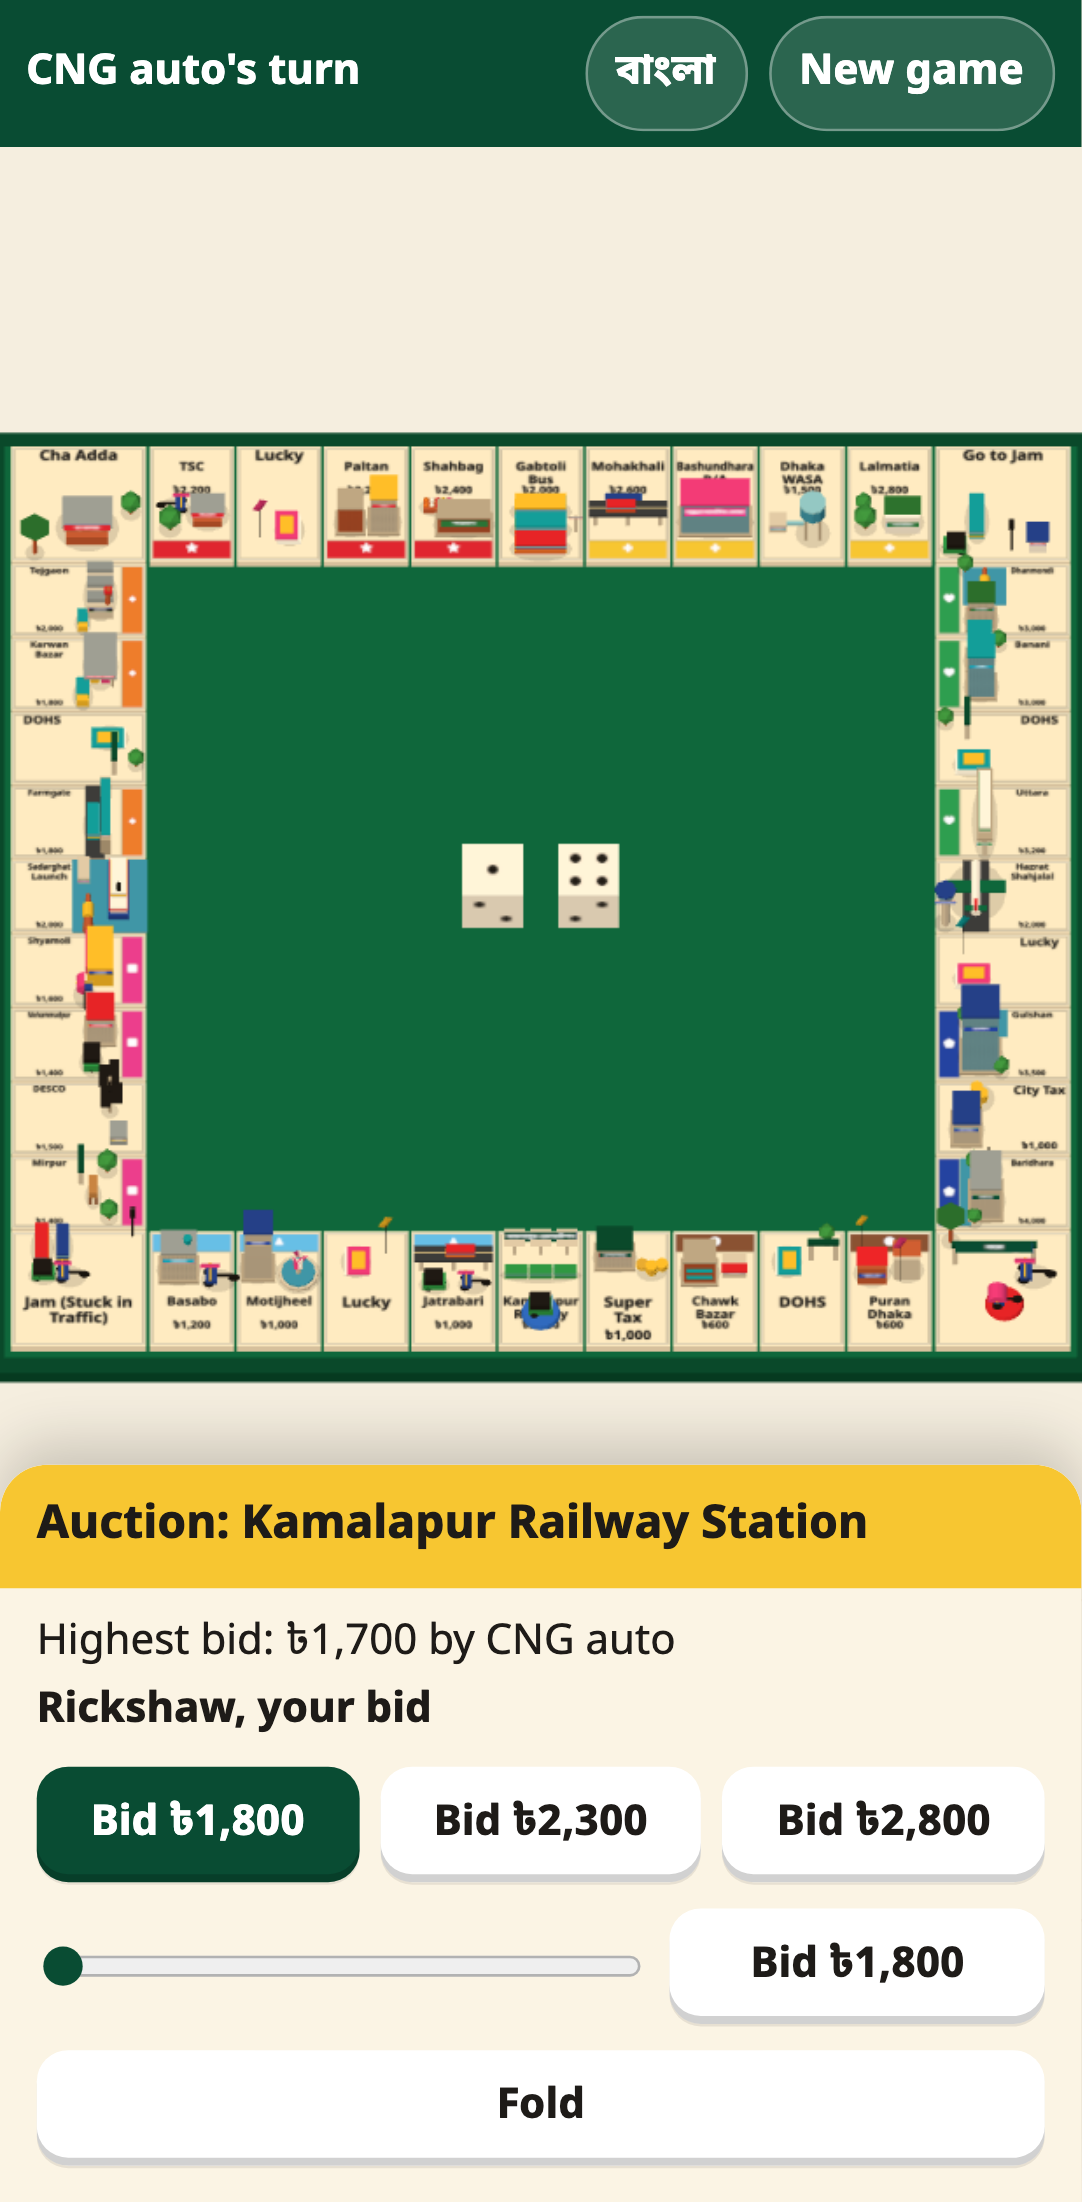
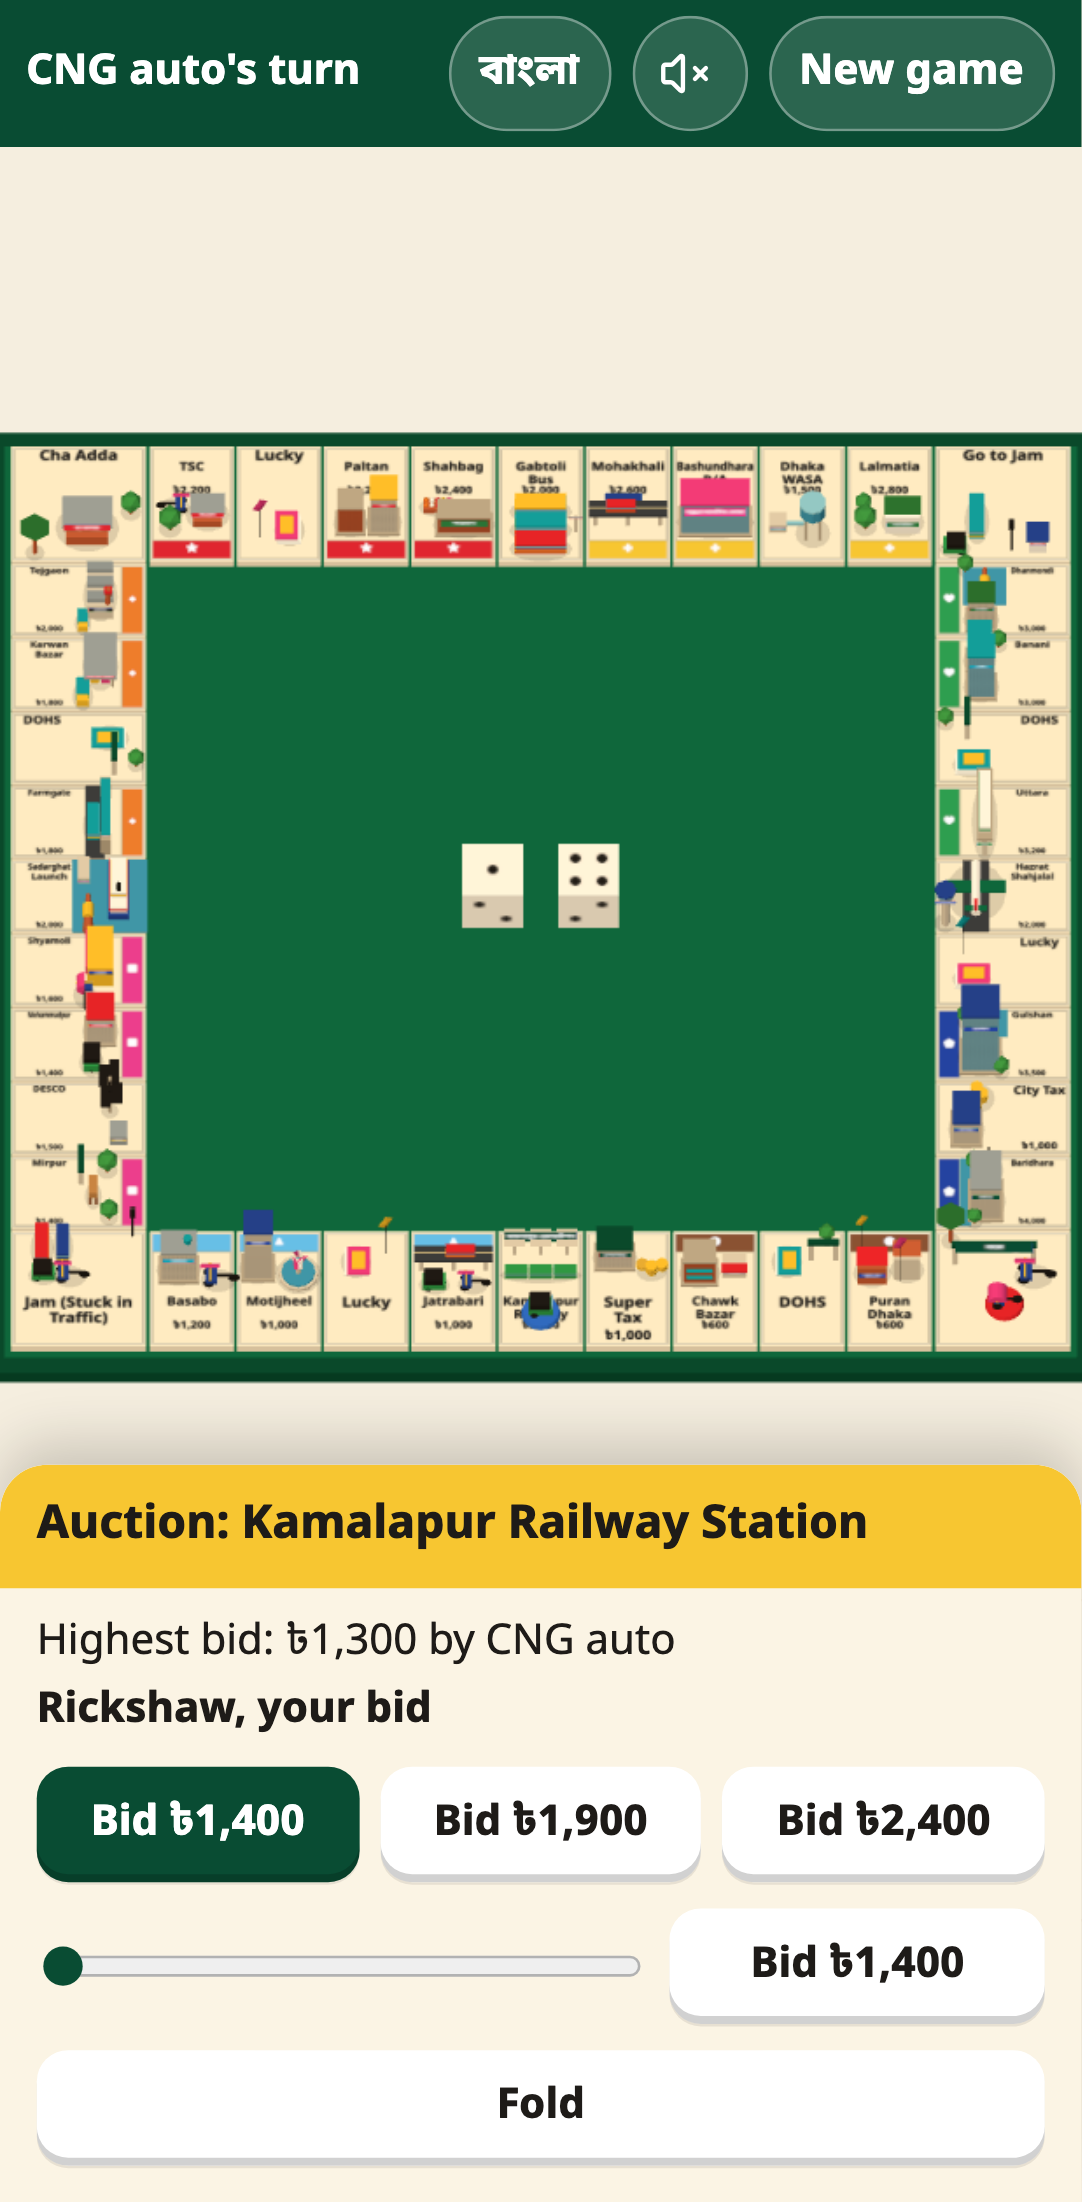
S6: style guide and asset manifest updated, S6 screenshots
S5 screenshots restored to their S5 state; S6 screens saved as s6-*.png. D-79 to D-83 logged.

diff --git a/tests/e2e/style.spec.ts b/tests/e2e/style.spec.ts
@@ -1,28 +1,39 @@
 import { expect, test } from '@playwright/test';
+import { runSteps } from './helpers';
 
-// S5 visual checks: the sample position at iPhone 13 Pro size (390 by 844 points, 3x pixels),
+// S5 and S6 visual checks: the sample position at iPhone 13 Pro size (390 by 844 points, 3x pixels),
 // both camera presets and both languages, saved for comparison with docs/style-guide.md.
 test.use({ viewport: { width: 390, height: 844 }, deviceScaleFactor: 3, isMobile: true, hasTouch: true });
 
-for (const camera of ['tabletop', 'tilted45', 'isometric']) {
+for (const camera of ['tabletop']) {
   for (const lang of ['en', 'bn']) {
-    test(`S5 showcase: ${camera} camera, ${lang}`, async ({ page }) => {
+    test(`S6 showcase: ${camera} camera, ${lang}`, async ({ page }) => {
       const errors: string[] = [];
       page.on('pageerror', (e) => errors.push(e.message));
       await page.goto(`/?showcase=1&camera=${camera}&lang=${lang}`);
       await page.waitForTimeout(800);
-      await page.screenshot({ path: `docs/screenshots/s5-${camera}-${lang}.png` });
+      await page.screenshot({ path: `docs/screenshots/s6-board-${lang}.png` });
       expect(errors).toEqual([]);
     });
   }
 }
 
-test('S5 game screen in the new style, both languages', async ({ page }) => {
+test('S6 game screen, both languages', async ({ page }) => {
   await page.goto('/?test=1&lang=en');
   await page.getByTestId('count-4').click();
   await page.getByTestId('start').click();
   await page.getByTestId('handoff').getByRole('button').click();
-  await page.screenshot({ path: 'docs/screenshots/s5-game-en.png' });
+  await page.screenshot({ path: 'docs/screenshots/s6-game-en.png' });
   await page.getByTestId('lang').click();
-  await page.screenshot({ path: 'docs/screenshots/s5-game-bn.png' });
+  await page.screenshot({ path: 'docs/screenshots/s6-game-bn.png' });
+});
+
+test('S6 card artwork', async ({ page }) => {
+  await page.goto('/?test=1&lang=en');
+  await page.getByTestId('start').click();
+  for (let i = 0; i < 2000 && !(await page.getByTestId('card').isVisible()); i++) await runSteps(page, 1);
+  await expect(page.getByTestId('card')).toBeVisible();
+  await page.screenshot({ path: 'docs/screenshots/s6-card-en.png' });
+  await page.getByTestId('lang').click();
+  await page.screenshot({ path: 'docs/screenshots/s6-card-bn.png' });
 });

diff --git a/docs/style-guide.md b/docs/style-guide.md
@@ -97,6 +97,8 @@ Every tile gets one Dhaka-specific anchor: a rickshaw with rickshaw-art colors, 
 
 Review test for each tile: with the name covered, would a Bangladeshi viewer still say Dhaka? If not, redo it.
 
+All 40 tiles are dressed (S6). The anchor list is in code: src/scene/models/dressing.ts.
+
 ### S5 hero group: Dark Blue
 
 | Tile | Anchor | Parts |
@@ -119,8 +121,16 @@ Target: 40 frames per second on the iPhone 13 Pro (D-69), plus one mid-range And
 
 Budgets: pixel ratio at most 1.5, under 200 draw calls, under 60,000 triangles for the full board.
 
-S5 measurement with the Dark Blue group dressed: 185 draw calls and about 1,900 triangles. Headless desktop Chrome (software rendering) held 60 fps, and 49 to 58 fps with the CPU slowed 4 times; the owner measured 40 or more on the iPhone 13 Pro (D-78). Triangles are far under budget; draw calls are the constraint. Before S6 dresses all tiles: draw the 40 tile signs into one shared texture (about 40 fewer calls) and merge each tile's static landmark parts into one mesh per material.
+S6 measurement with all 40 tiles dressed: 17 draw calls and about 10,700 triangles (static scenery merged, labels and signs in atlases, houses and owner bands instanced). S5, Dark Blue only, had 185 draw calls. Headless desktop Chrome (software rendering) held 60 fps, and 49 to 58 fps with the CPU slowed 4 times; the owner measured 40 or more on the iPhone 13 Pro (D-78). Triangles are far under budget; draw calls are the constraint. Before S6 dresses all tiles: draw the 40 tile signs into one shared texture (about 40 fewer calls) and merge each tile's static landmark parts into one mesh per material.
 
 ## 10. Small anchors at phone scale
 
 On a 390-point-wide phone a side tile is about 31 points wide. A rickshaw or nouka at true scale is a few points, so anchors are drawn about 1.4 times larger than the buildings around them would suggest, and each tile shows one big, simple anchor rather than many small ones.
+
+## 11. Tokens, motion and sound (S6)
+
+- **Tokens**: rickshaw, CNG auto, ilish, kite, tea cup and bus (plan 2.4), each a merged low-poly model standing on a disc in the player's color, so color stays the first cue.
+- **Motion**: tokens hop tile by tile, stretching in the air and squashing on landing; dice tumble and bounce lower each time; new owner bands, houses and hotels pop in with a small overshoot. All motion returns to rest. When the phone asks for reduced motion, hops become short slides and nothing squashes or pops.
+- **Sound**: synthesized in code (plan 3.1): dice rattle, hop ticks, a cash chime for buying, coins for rent and salary, a paper swish for cards, an auction bell, a two-tone jam horn, a knock for building, falling notes for bankruptcy and a short fanfare for the win. All sound goes through one bus and a limiter. A sound toggle sits in the top strip and is remembered per device.
+- **Cards**: a rickshaw-art border of flowers and dots in the deck color, with a lucide icon for the card's effect.
+- **Tap to build**: Build, Sell, Mortgage and Redeem highlight the tiles they can use with a pulsing yellow overlay; tapping a tile acts there. The list stays as a fallback.

diff --git a/docs/asset-manifest.md b/docs/asset-manifest.md
@@ -1,17 +1,18 @@
 # Asset manifest
 
-Every visual and sound asset in plan 3.10, its status and where it comes from. All assets are made in code; no image, model or sound files are shipped (docs/LICENSES.md lists the only third-party file, the Bangla font).
+Every visual and sound asset in plan 3.10, its status and where it comes from. All assets are made in code; no image, model or sound files are shipped. docs/LICENSES.md lists the third-party pieces: the Bangla font and the lucide icons.
 
 | Asset (plan 3.10) | Status | Made by |
 |---|---|---|
 | Base tile, side and corner | Styled (S5) | src/scene/board.ts, canvas tile texture |
-| Corner scenes: GO, Jam, Cha Adda, Go to Jam | Greybox | S6 |
-| Property building kits | Dark Blue dressed (S5 hero target); 20 properties greybox | src/scene/models/kit.ts, dressing.ts |
-| House and hotel | Styled (S5) | src/scene/board.ts |
-| Transport hubs and utilities | Greybox | S6 |
-| Card and tax tiles | Greybox | S6 |
-| Tokens: rickshaw, CNG, ilish, kite, tea cup, bus | Greybox shapes in player colors | S6 |
-| Dice | Styled (S5) | src/scene/board.ts, canvas pip texture |
-| Avatars and UI icons | Color swatches only | S6 |
-| Audio | Not started | S6, Web Audio synthesis |
+| Corner scenes: GO, Jam, Cha Adda, Go to Jam | Dressed (S6) | src/scene/models/dressing.ts |
+| Property building kits | All 22 dressed (S6), one Dhaka anchor each | src/scene/models/kit.ts, dressing.ts |
+| House and hotel | Styled, instanced (S6) | src/scene/board.ts |
+| Transport hubs and utilities | Dressed (S6) | src/scene/models/dressing.ts |
+| Card and tax tiles | Dressed (S6) | src/scene/models/dressing.ts |
+| Tokens: rickshaw, CNG, ilish, kite, tea cup, bus | Modeled (S6) on player-colored discs | src/scene/models/tokens.ts |
+| Dice | Styled, one texture (S6) | src/scene/board.ts |
+| Avatars and UI icons | Color swatches as avatars; lucide icons (ISC) for sound and cards | src/ui/icons.ts |
+| Audio | Synthesized (S6): dice, hop, buy, rent, coin, card, bell, horn, build, fall, fanfare | src/audio/sfx.ts |
 | Interface (buttons, sheets, player cards) | Styled (S5) | src/ui/styles.css |
+| Card artwork | Rickshaw-art border with an effect icon (S6) | src/ui/cardArt.ts |

diff --git a/docs/DECISIONS.md b/docs/DECISIONS.md
@@ -84,6 +84,11 @@ Two lists: decisions taken (with who decided and why), and open questions waitin
 | D-76 | 2026-11-08 | S5 camera choice: tabletop (58 degrees, board square to the screen). | Owner | Plan 3.6 and 4.3 S5 check: owner picks the preset. tilted45 and isometric stay in data/scene.json for reference only. |
 | D-77 | 2026-11-08 | Each property's set color band sits on the tile edge facing the board centre: top edge for the bottom row, bottom edge for the top row, right edge for the left column, left edge for the right column. Houses and hotels stand on the band. Tile text stays upright (D-67) and keeps clear of the owner band on the outer edge. | Owner | Owner feedback on the S5 screenshots; matches a printed board. |
 | D-78 | 2026-11-08 | S5 gate passed: the owner confirmed the style and measured 40 or more frames per second on the iPhone 13 Pro with `?bench=1&camera=tabletop`. | Owner | Plan 4.3 S5 checks all met: camera chosen (D-76), style confirmed, frame rate on target. The mid-range Android check (D-69) is still due before S7. |
+| D-79 | 2026-11-08 | Tile anchors for all 40 tiles  based on the plan 3.9 art hooks. Religious buildings, stadiums and party symbols are left out (plan 3.8). | Builder | Plan 3.9 says the hooks are suggestions to check against the owner's knowledge; the owner reviews them in S6. |
+| D-80 | 2026-11-08 | Interface and card icons come from lucide (npm `lucide`, ISC), recorded in docs/LICENSES.md. | Builder | Org rule: icons from lucide.dev only. |
+| D-81 | 2026-11-08 | Static scenery is merged into a few meshes, labels and signs use atlases, houses and owner bands are instanced. 17 draw calls for the dressed board. | Builder | Style guide 9: draw calls were the S5 constraint. |
+| D-82 | 2026-11-08 | Tap to build: Build, Sell, Mortgage and Redeem highlight usable tiles and a tap acts there; the list stays as a fallback in a shorter sheet. | Builder | D-71 reference principle. |
+| D-83 | 2026-11-08 | Motion respects the phone's reduced-motion setting; sound has a toggle remembered per device and is off in test mode. | Builder | game-feel skill: accessibility option for motion; plan 2.2 accessibility. |
 
 ## Open questions
 
